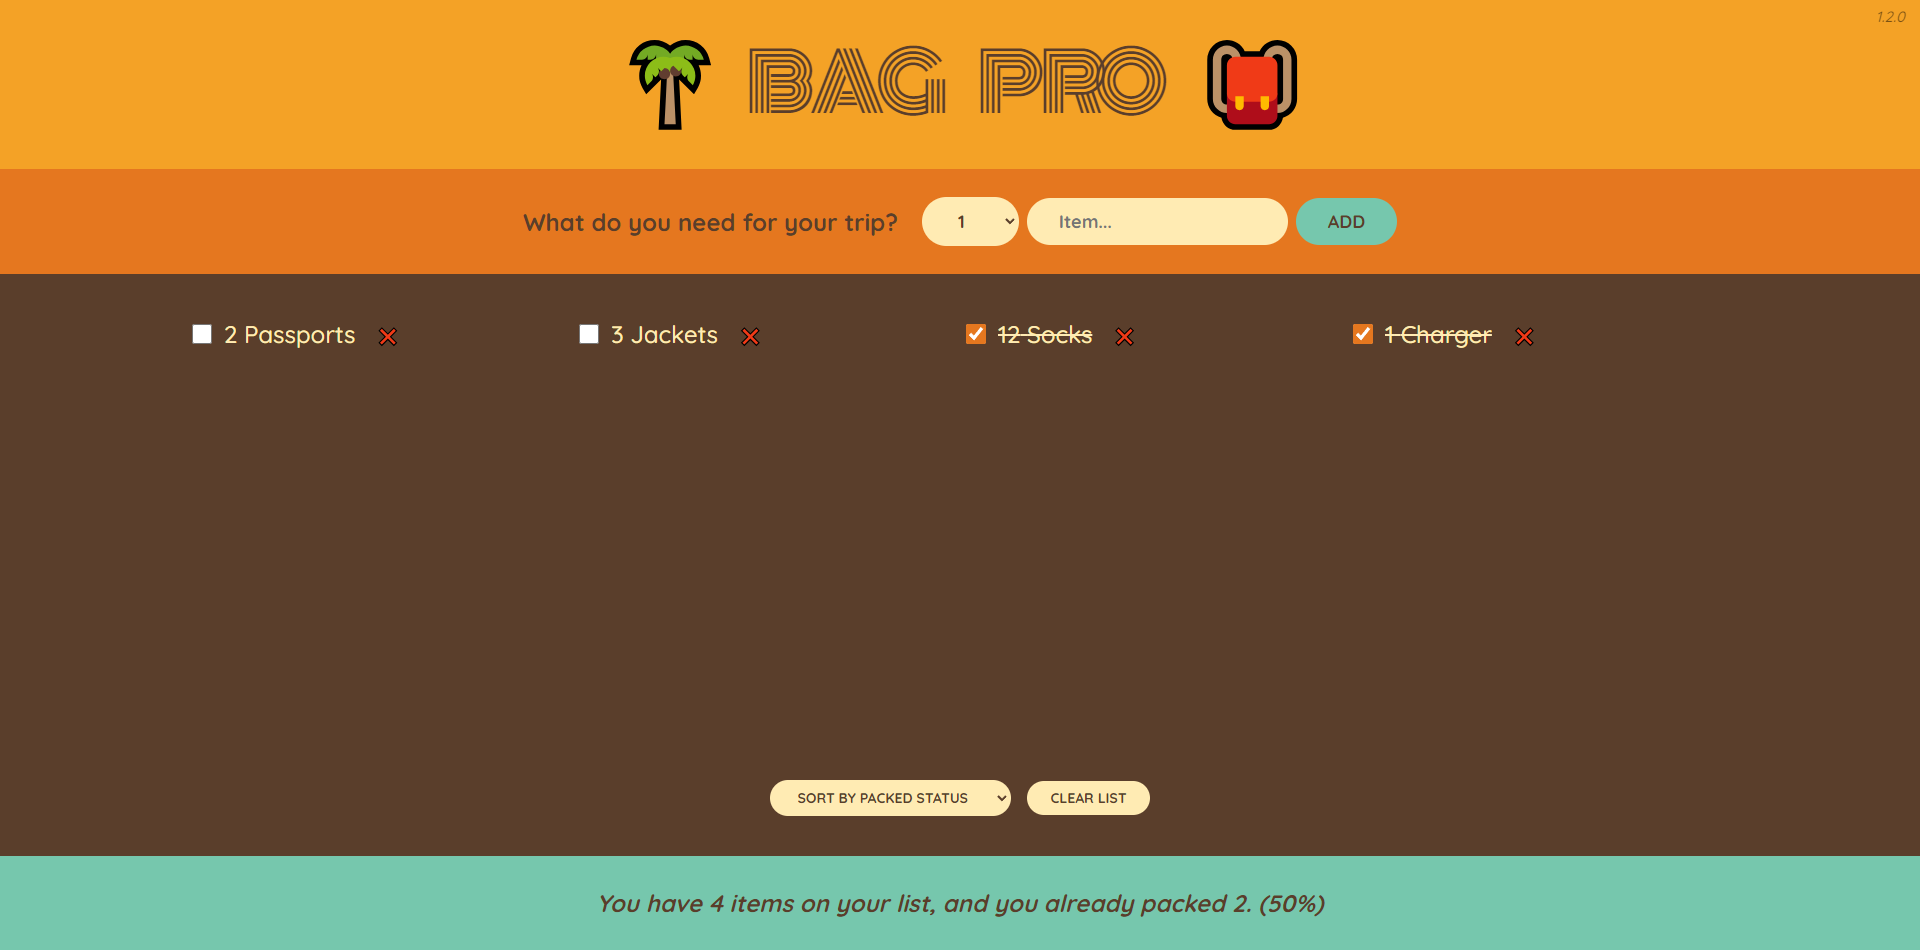
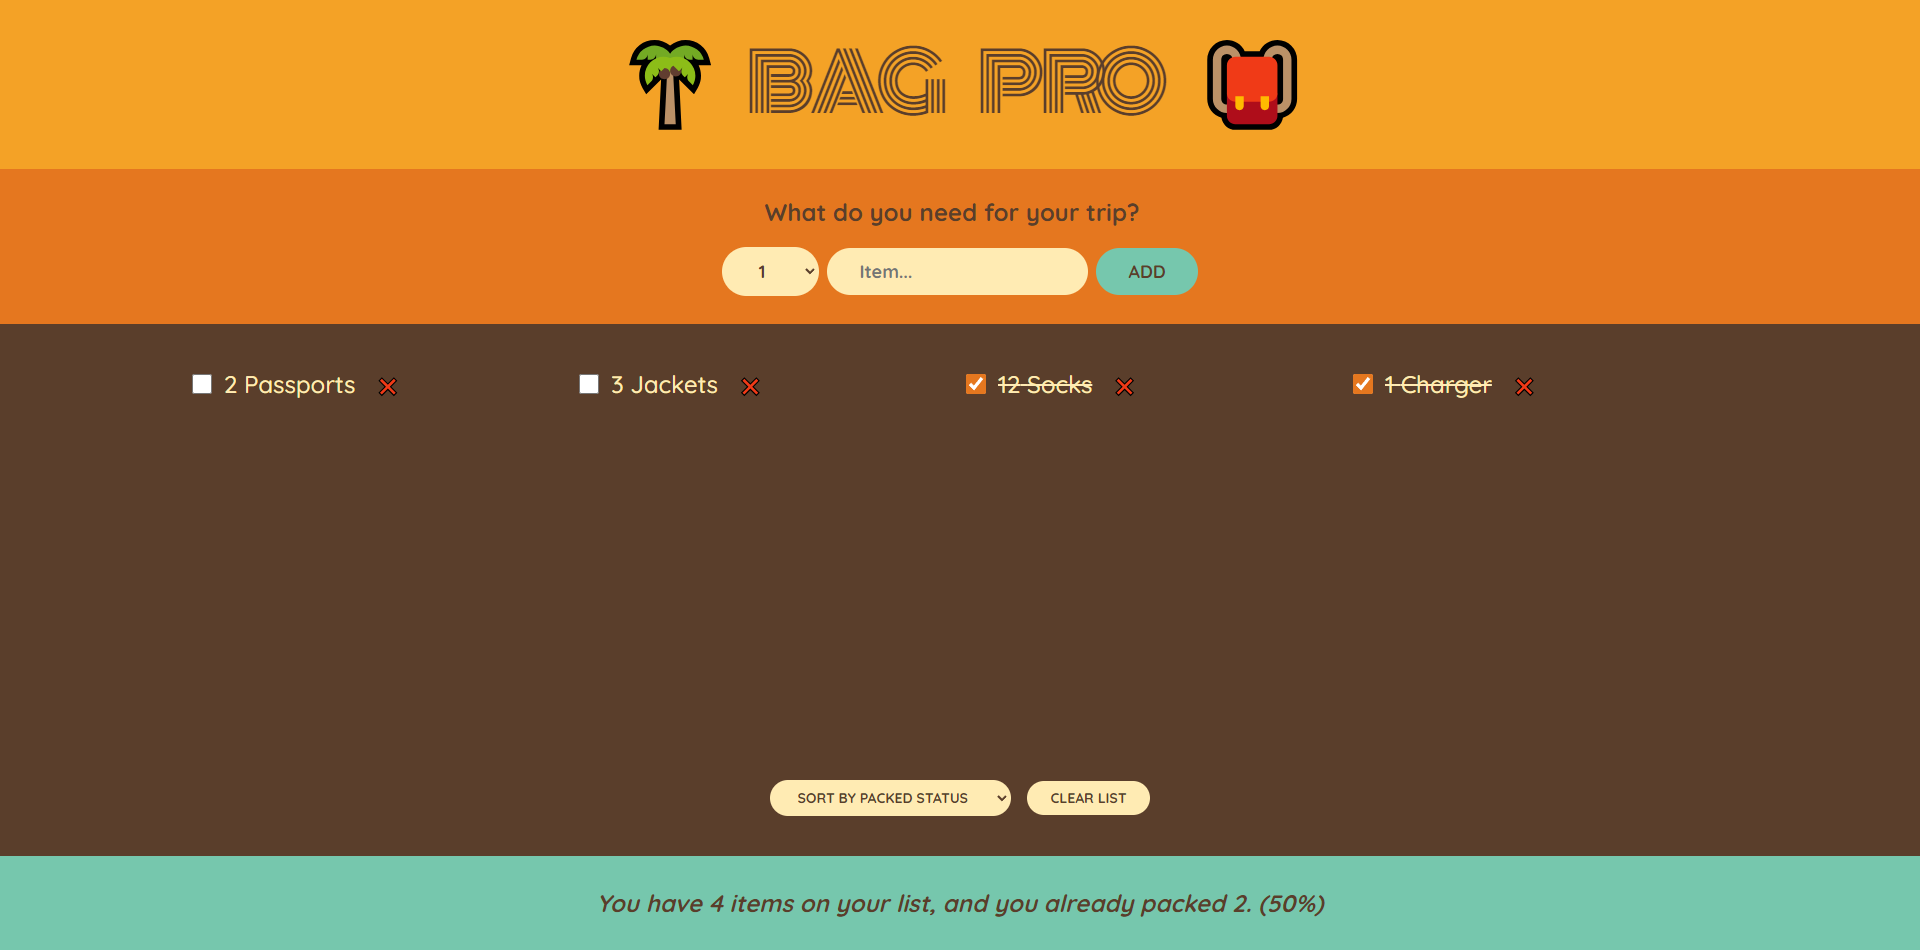
BAG PRO 1.3.0
Update manifest.json
Update App.js
Update Stats.js
Update Logo.js
Update Form.js
Update index.css
Update PackingList.js
Delete VersionWatermark.js

diff --git a/src/components/Form.js b/src/components/Form.js
@@ -17,12 +17,16 @@ export default function Form({ onAddItems }) {
 
     return (
         <form className="add-form" onSubmit={handleSubmit}>
-            <h3>What do you need for your trip?</h3>
-            <select value={quantity} onChange={(e) => setQuantity(Number(e.target.value))}>
-                {Array.from({ length: 5 }, (_, i) => i + 1).map(num => (<option value={num} key={num}>{num}</option>))}
-            </select>
-            <input type="text" placeholder="Item..." value={description} onChange={(e) => setDescription(e.target.value)} />
-            <button>Add</button>
+            <div>
+                <h3>What do you need for your trip?</h3>
+            </div>
+            <div>
+                <select value={quantity} onChange={(e) => setQuantity(Number(e.target.value))}>
+                    {Array.from({ length: 5 }, (_, i) => i + 1).map(num => (<option value={num} key={num}>{num}</option>))}
+                </select>
+                <input type="text" placeholder="Item..." value={description} onChange={(e) => setDescription(e.target.value)} />
+                <button>Add</button>
+            </div>
         </form >
     );
 };

diff --git a/src/components/Stats.js b/src/components/Stats.js
@@ -3,9 +3,11 @@ import Swal from "sweetalert2";
 export default function Stats({ items }) {
     if (!items.length) {
         return (
-            <p className="stats">
-                <em>Start adding some items to your packing list ✈</em>
-            </p>
+            <footer>
+                <p className="stats">
+                    <em>Start adding some items to your packing list ✈</em>
+                </p>
+            </footer>
         );
     };
 
@@ -28,7 +30,7 @@ export default function Stats({ items }) {
 
     return (
         <footer className="stats">
-            <em>{percentage === 100 ? "You got everything! Ready to go!" : `You have ${numItems} items on your list, and you already packed ${numPacked}. (${percentage}%)`}</em>
+            <em className="statsText">{percentage === 100 ? "You got everything! Ready to go!" : `You have ${numItems} items on your list, and you already packed ${numPacked}. (${percentage}%)`}</em>
         </footer>
     );
 };

diff --git a/src/components/Logo.js b/src/components/Logo.js
@@ -1,5 +1,27 @@
+import { useEffect, useState } from "react";
+
 export default function Logo() {
+    const [isSmallScreen, setIsSmallScreen] = useState(GetScreenSize());
+    useEffect(() => {
+        const handleResize = () => {
+            setIsSmallScreen(GetScreenSize());
+        };
+        window.addEventListener("resize", handleResize);
+        return () => {
+            window.removeEventListener("resize", handleResize);
+        };
+    }, []);
+
+    function GetScreenSize() {
+        if (window.innerWidth <= 800)
+            return true;
+        else
+            return false;
+    }
+
     return (
-        <h1>🌴 Bag Pro 🎒</h1>
+        <>
+            {isSmallScreen ? <h1>Bag Pro</h1> : <h1>🌴 Bag Pro 🎒</h1>}
+        </>
     );
 };

diff --git a/src/components/App.js b/src/components/App.js
@@ -5,7 +5,6 @@ import Swal from "sweetalert2";
 import { useState } from 'react';
 import PackingList from './PackingList';
 import ItemsData from '../data/ItemsData';
-import VersionWatermark from './VersionWatermark';
 
 const initialItems = new Array(ItemsData.items.length);
 ItemsData.items.forEach(element => {
@@ -78,7 +77,6 @@ export default function App() {
       <Form onAddItems={handleAddItems} />
       <PackingList items={items} onDeleteItem={handleDeleteItem} onToggleItem={handleToggleItem} onClearList={handleClearList} />
       <Stats items={items} />
-      <VersionWatermark />
     </div>
   );
 };

diff --git a/src/components/PackingList.js b/src/components/PackingList.js
@@ -15,7 +15,7 @@ export default function PackingList({ items, onDeleteItem, onToggleItem, onClear
             <div className="actions">
                 <select value={sortBy} onChange={e => setSortBy(e.target.value)}>
                     <option value="input">Sort by input order</option>
-                    <option value="description">Sort by description</option>
+                    <option value="description">Sort by name</option>
                     <option value="packed">Sort by packed status</option>
                 </select>
                 <button onClick={onClearList}>Clear list</button>

diff --git a/src/index.css b/src/index.css
@@ -39,7 +39,10 @@ h1 {
 
 .add-form {
   background-color: #e5771f;
-  padding: 2.8rem 0;
+  padding: 2.8rem 2rem;
+}
+
+.add-form div {
   display: flex;
   align-items: center;
   justify-content: center;
@@ -49,6 +52,7 @@ h1 {
 h3 {
   margin-right: 1.6rem;
   font-size: 2.4rem;
+  margin-bottom: 20px;
 }
 
 button,
@@ -128,7 +132,7 @@ input[type="checkbox"] {
   background-color: #76c7ad;
   text-align: center;
   font-weight: 700;
-  padding: 3.2rem 0;
+  padding: 3.2rem 4rem;
 }
 
 .versionWatermark {

diff --git a/README.md b/README.md
@@ -10,7 +10,7 @@
 
 - **STACK :**
 
-  - **Bag Pro** : `1.2.0`
+  - **Bag Pro** : `1.3.0`
   - **React** : `18.3.1`
   - **React Dom** : `18.3.1`
   - **SweetAlert2** : `11.12.3`
